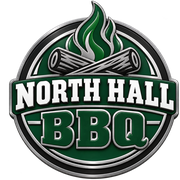
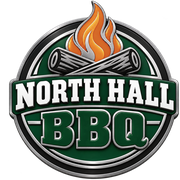
Ember flame on the badge, and the name on one line
The logo's flame goes from green to the same ember the tagline ribbon uses.
Only the fire: the four flame tongues were picked out of the image by hue and
by being their own islands inside the chrome outlines, so the green disc
showing between the logs and the ring stays green. Shading is kept -- the
flame's own tones map onto the ribbon's palette, shadow to deep ember, mid
to ember, highlight to hot -- and the chrome edges are untouched.

The headline sits on one line at every width now, with a little air between
the letters, sized to the column beside the logo instead of a fixed clamp.
Restoring the gradient face after that edit, which had dropped it.

Claude-Session: https://claude.ai/code/session_018TGuRcDJCQYT6kSGWPv3eB

Changed region(s): [[0.3611, 0.0, 0.6944, 0.3611]]

diff --git a/public/styles.css b/public/styles.css
@@ -723,15 +723,17 @@ header.site{
    that order because a see-through gradient shows whatever sits under it. */
 header.site .hero h1,header.site h1{
   font-family:var(--font-display);font-weight:400;font-style:normal;
-  font-size:clamp(40px,6.4vw,84px);line-height:.92;letter-spacing:.015em;
+  /* one line, always: sized to the space beside the logo, letters given a
+     little air so the word doesn't read as a solid block */
+  font-size:clamp(24px,3.6vw,54px);line-height:.95;letter-spacing:.07em;white-space:nowrap;
   transform:skewX(-7deg);transform-origin:left bottom;display:inline-block;
   position:relative;margin:2px 0 14px;
   color:#fff;-webkit-text-fill-color:#fff;background:none;
-  -webkit-text-stroke:5px #fff;paint-order:stroke fill;
-  text-shadow:6px 6px 0 #070e09, 9px 9px 0 rgba(0,0,0,.55), 0 20px 40px rgba(0,0,0,.6)}
+  -webkit-text-stroke:4px #fff;paint-order:stroke fill;
+  text-shadow:5px 5px 0 #070e09, 8px 8px 0 rgba(0,0,0,.55), 0 20px 40px rgba(0,0,0,.6)}
 header.site h1::before{display:none}
 header.site h1::after{content:attr(data-text);position:absolute;inset:0;z-index:1;
-  -webkit-text-stroke:0;text-shadow:none;
+  -webkit-text-stroke:0;text-shadow:none;letter-spacing:inherit;white-space:nowrap;
   background:linear-gradient(180deg,#ffe38a 0%,var(--ember-hot) 42%,var(--ember-mid) 100%);
   -webkit-background-clip:text;background-clip:text;-webkit-text-fill-color:transparent;color:transparent}
 
@@ -828,8 +830,9 @@ footer.site{margin-top:0;clip-path:none;background:#070e09;color:#93a297}
 @media (max-width:620px){
   .lockup{gap:14px;align-items:center}
   .lockup .mark{width:104px;height:104px}
-  header.site h1{font-size:34px;-webkit-text-stroke:3px #fff;
+  header.site h1{font-size:clamp(19px,6vw,27px);letter-spacing:.05em;-webkit-text-stroke:2.5px #fff;
     text-shadow:3px 3px 0 #070e09,5px 5px 0 rgba(0,0,0,.55)}
+  .lockup .mark{width:88px;height:88px}
   .eyebrow{font-size:10.5px;letter-spacing:.14em}
   .eyebrow::before{flex-basis:14px}
   .eyebrow .more{display:none}
